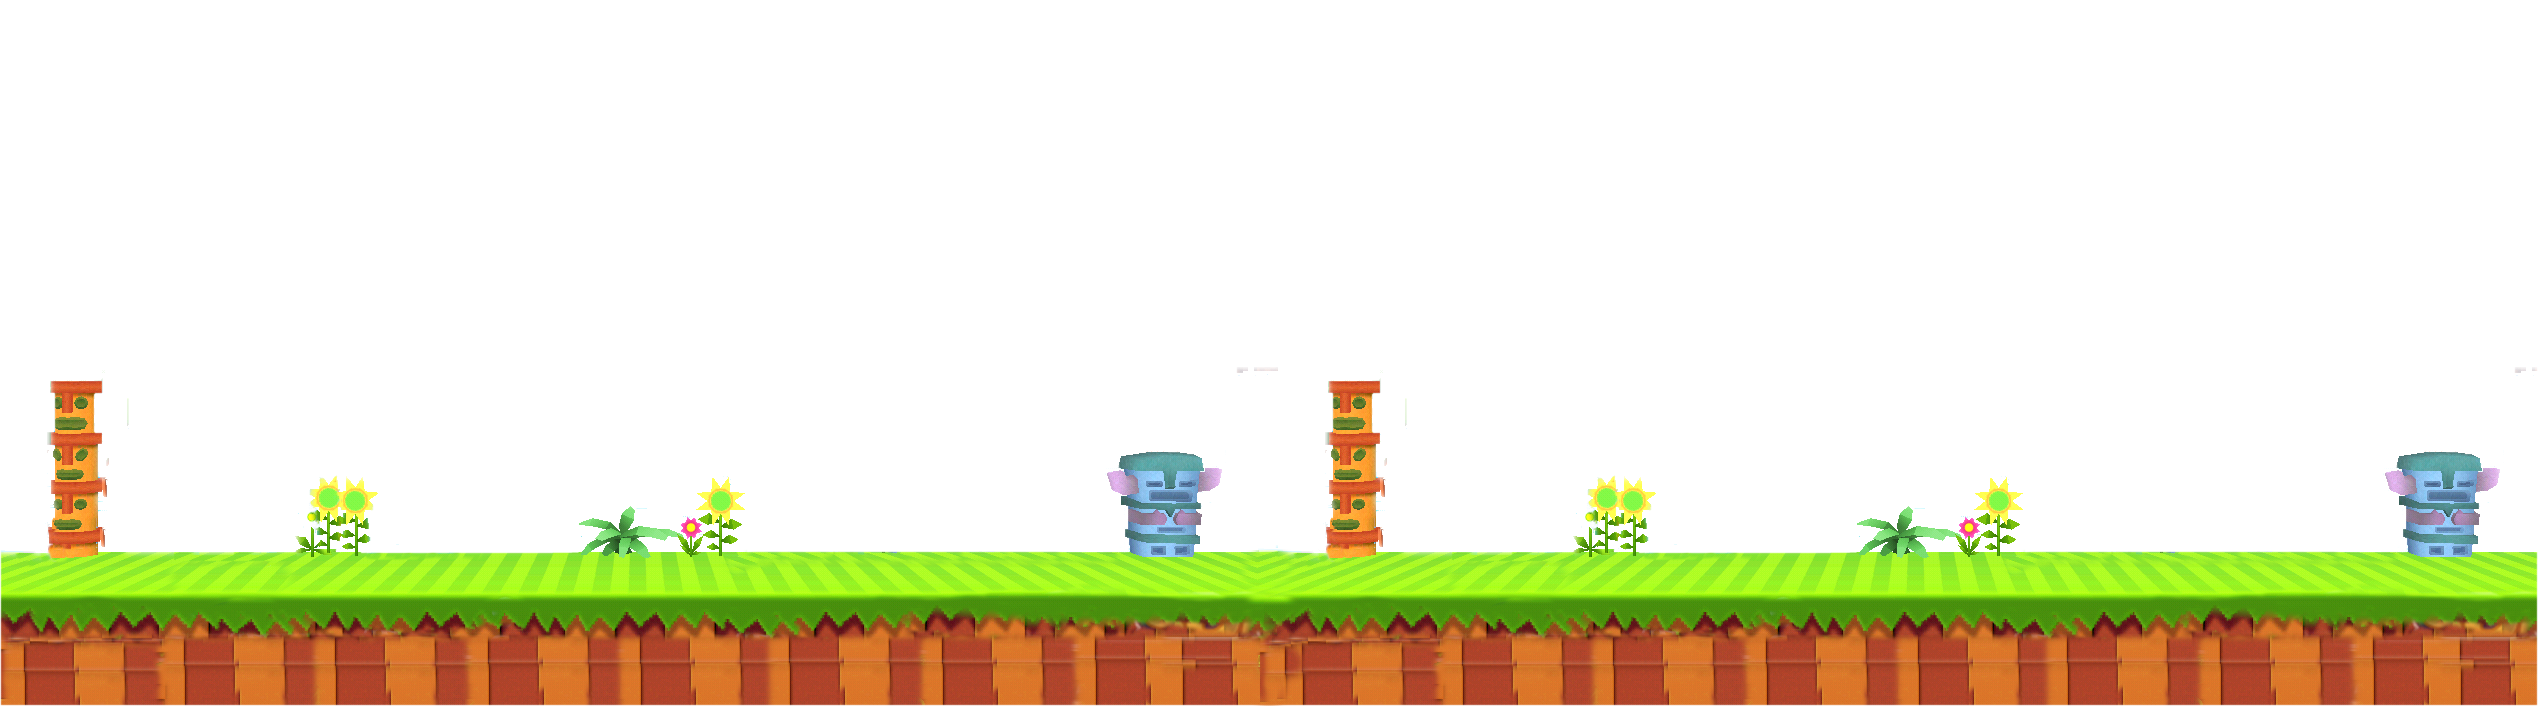
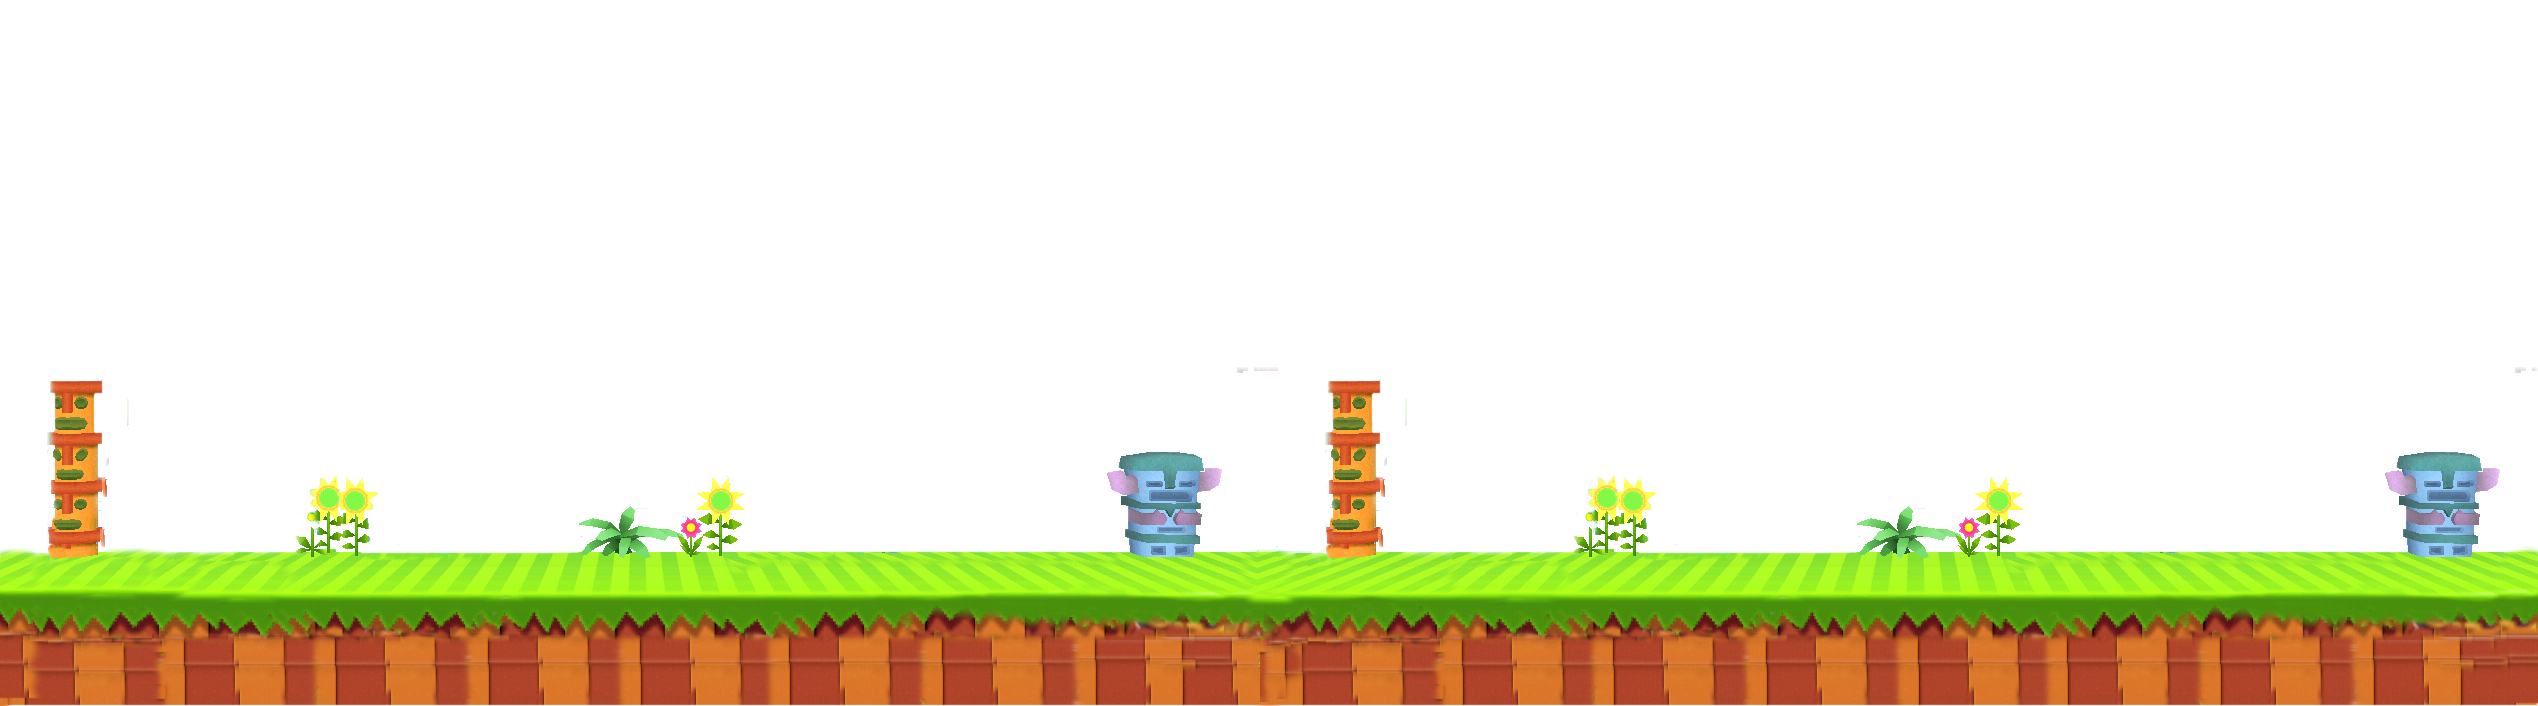
se corrigen bugs de diseño de imagen

Changed region(s): [[0.0, 0.779, 0.0934, 1.0], [0.9649, 0.779, 1.0, 0.9972]]

diff --git a/TP3/EntregaFinal/css/style.css b/TP3/EntregaFinal/css/style.css
@@ -2,7 +2,7 @@
 #sonic{  
   width:119.75px;
   height: 139px; 
-  background: url(../images/sonic.png) left center;
+  background: url(../images/sonic_camina.png) left center;
   animation:sonicCamina 0.8s steps(10) infinite;  
   position:absolute; 
   top: 450px;
@@ -56,7 +56,7 @@
   height: 100%;
   width: 100%;
   background:url(../images/suelo.png) repeat-X;
-  animation: movimientoPiso 10s linear infinite;
+  animation: movimientoPiso 15s linear infinite;
 }
 @keyframes movimientoPiso{
   100%{
